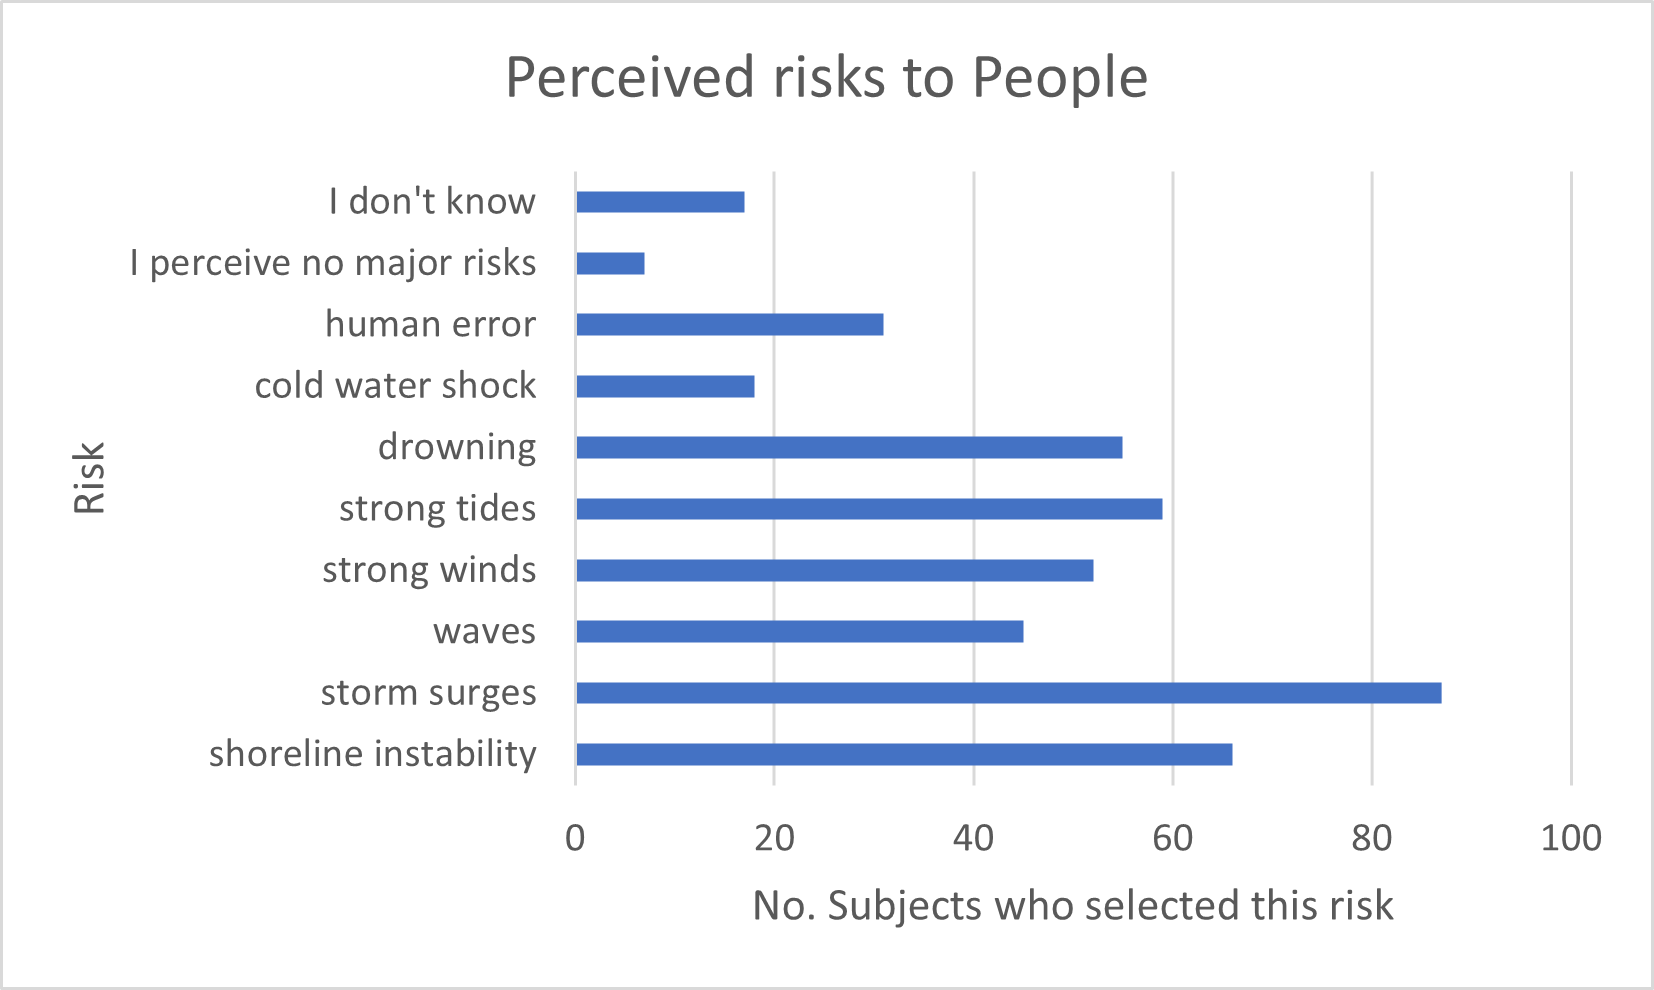
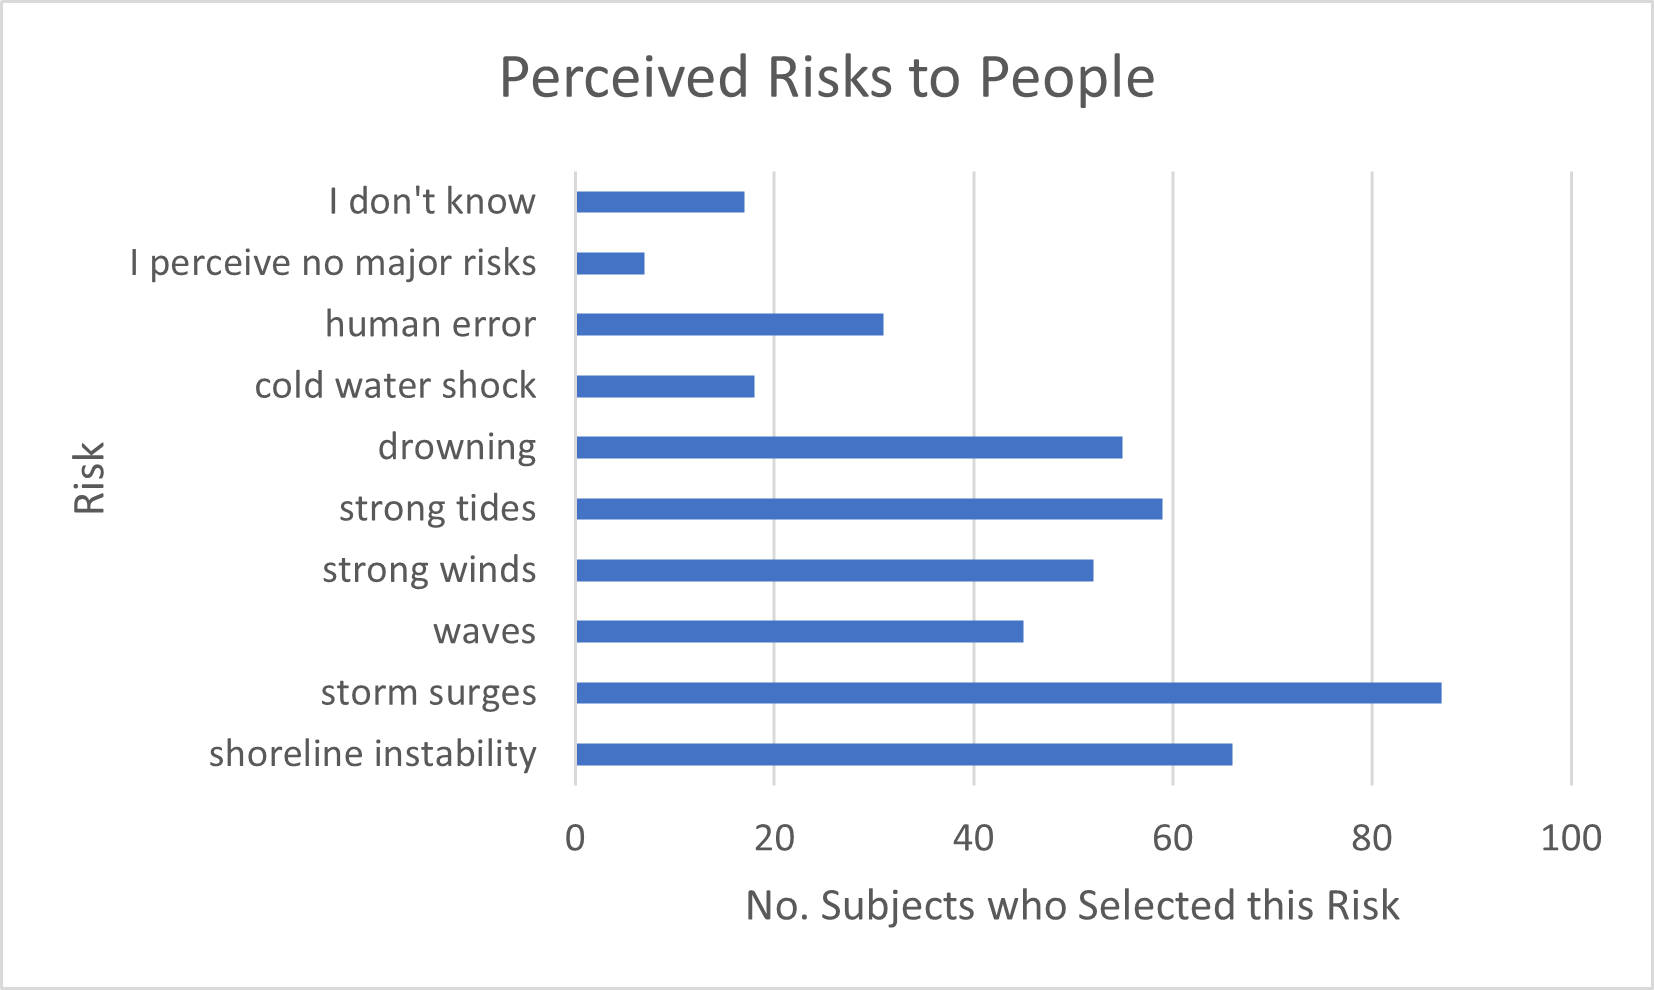
results - fixed typos including in pictures

Changed region(s): [[0.2775, 0.0606, 0.7092, 0.1212], [0.4317, 0.8788, 0.8634, 0.9394]]

diff --git a/results-resturcture.tex b/results-resturcture.tex
@@ -96,28 +96,28 @@ The spread of the memory of sea level extreme events in Trondheim by the subject
 \begin{figure}[H]
     \centering
     \includegraphics{fig_results/memory-sle.png}
-    \caption{Memory of SLEs}{ The subjects were asked which about each sea level extreme event (water level higher than 2m) they remembered occurring between 1950 and summer 2022. For the full list of potential events please consults the relevant question in the appendix. 45 out of 153 subjects do not remember any sea level extreme event in Trondheim. Only one subject remembered every sea level extreme event dating back to 1950 in Trondheim. 51 subjects remembered the sea level extreme event in February 2020. }
+    \caption{Memory of SLEs}{ The subjects were asked which SLE events (water level higher than 2m) they remembered occurring between 1950 and summer 2022. For the full list of potential events please consults appendix C. 45 out of 153 subjects (30\%) do not remember any sea level extreme event in Trondheim. Only one subject remembered every sea level extreme event dating back to 1950 in Trondheim. 51 subjects remembered the sea level extreme event in February 2020. }
     \label{fig:memory_sle}
 \end{figure}
 \paragraph{}
 
-Memory has a very skewed factor. 30\% of subjects have no memory of SLEs in Trondheim. Once that answer is excluded, there is almost an exponential increase in the number of subjects who remember the event the closer to the present. 
+Memory has a very skewed factor, 30\% of subjects have no memory of SLEs in Trondheim. Once the response of "Do not remember" is excluded, there is almost an exponential increase in the number of subjects who remember the SLE events, with the most common result being the most recent SLE event where the water level was higher than 2m.  
 \paragraph{}
 Figure \ref{fig:long_know} shows the responses to the place-based length of knowledge question.
 
 \begin{figure}[H]
     \centering
     \includegraphics{fig_results/long_know.png}
-    \caption{Length of Knowledge of Subjects.}{ 96 subjects had a length of knowledge about the place greater than 5 years 35 subjects had length of knowledge less than 5 years, but more than 1. Only 20 respondents had a length of knowledge under 1 year}
+    \caption{Length of Knowledge of Subjects.}{ 96 subjects had a length of knowledge about the place greater than 5 years 35 subjects had length of knowledge less than 5 years, but more than 1. Only 20 respondents had a length of knowledge under 1 year about the place they chose to answer on.}
     \label{fig:long_know}
 \end{figure}
 
-20 subjects responded that they had a length of knowledge of Trondheim under one year. 96 subjects responded that they had a length of knowledge greater than five years, which includes the sea level extreme event occurring in February 2020, which only 51 subjects remembered. The difference between a sea level extreme event and a disaster and how this impacts memory and resilience is expanded upon in the discussion.
+20 subjects responded that they had a length of knowledge of Trondheim under one year. 96 subjects responded that they had a length of knowledge greater than five years, which includes the sea level extreme event occurring in February 2020, which only 51 subjects remembered (figure \ref{fig:memory_sle}). The difference between a SLE event and a disaster and how this impacts memory and resilience is expanded upon in the discussion (section \ref{discuss-memory}).
 
 
 \subsection{Information Access about Climate and Place}
 
-There is significant skew in how subjects access information about climate and place as can be seen in Table \ref{table:sum_stats_info_climate_access} and Table\ref{table:sum_stats_info__place_access} below. That individuals with a broader range of information sources have higher levels of awareness is one of the hypotheses outlined in the introduction. 
+There is significant skew in how subjects access information about climate and place as can be seen in table \ref{table:sum_stats_info_climate_access} and table \ref{table:sum_stats_info__place_access} below. That individuals with a broader range of information sources have higher levels of awareness is one of the hypotheses outlined in the introduction (section \ref{hypotheses-intro}). 
 
 \begin{center}
 \begin{table}[H]
@@ -316,7 +316,7 @@ As shown by the focus group there is issues with just requesting a numeric value
 
 \subsection{Shapiro Test Results}
 
-During histogram analysis, only the factors of "interest-level" and "info-climate-sum" appeared normally distributed. To investigate whether these factors were truly normally distributed, a Shapiro test was carried out following (\cite{royston_extension_1982}).  An assumption of alpha value of 0.05 was determined meaningful (\cite{royston_extension_1982}). This means if the p-value created during this test is below 0.05 then the null hypothesis is rejected. This does leave a 5 \% chance of error. The results from the Shapiro test can be seen in Table \ref{table:shapiro_test_results} and this determines that none of the variables were normally distributed. 
+During histogram analysis, only the factors of "interest-level" and "info-climate-sum" appeared normally distributed. To investigate whether these factors were truly normally distributed, a Shapiro test was carried out following (\cite{royston_extension_1982}).  An assumption of alpha value of 0.05 was determined meaningful (\cite{royston_extension_1982}). This means if the p-value created during this test is below 0.05 then the null hypothesis is rejected. This does leave a 5 \% chance of error. The results from the Shapiro test can be seen in table \ref{table:shapiro_test_results} and this determines that none of the variables were normally distributed. 
 
 \begin{table}[H]
     \centering
@@ -384,7 +384,7 @@ Table \ref{kw_test_com_membership} shows the Kruskal Wallis Test Results for the
     \caption{Kruskal Wallis Test Results - Community Membership as Factor}{ "awareness A" means that for this determination of awareness, all five questions on awareness in the survey were included. Sum of Community Memberships is how many communities did the subjects select in the survey. Marine worker is whether the subject considered themselves a marine worker. This had no responses. Community memberships also included worker, resident, student, commuter, leisure user land, leisure user water and other. The Other community membership was where the subjects self-identified their community: the most common response was tourist, with sailor coming next. }
     \label{kw_test_com_membership}
 \end{table}
-Resident is the only value which is highlighted in Table \ref{kw_test_com_membership} as it is the only significant result when utilising a alpha value of 0.05. The factor of resident has a P-value of 0.01524, meaning the differences between the medians are statistically significant. This allows the rejection of the null hypothesis and the acceptance of the positive hypothesis that awareness is dependent on residency. 
+Resident is the only value which is highlighted in table \ref{kw_test_com_membership} as it is the only significant result when utilising a alpha value of 0.05. The factor of resident has a P-value of 0.01524, meaning the differences between the medians are statistically significant. This allows the rejection of the null hypothesis and the acceptance of the positive hypothesis that awareness is dependent on residency. 
 \paragraph{}
 
 Table \ref{kw_test_info_place} shows the Kruskal Wallis Test Results on the factors covering Information Sources for Place. Two forms of determining awareness are used as predictors. "awareness A", where all five questions on awareness in the survey were included and "awareness B", where only the questions which utilised edited photographs are used to determine awareness.
@@ -441,7 +441,7 @@ For the determination of awareness which considered all five possible questions,
 \paragraph{}
 For the determination of awareness which only utilised the edited photograph questions, both the information source of newspaper and formal education were significant.
 \paragraph{}
-Table \ref{kwtest_place} shows the Kruskal Wallis Test Results on the factors of Place subjects responded on. These places had varied physical vulnerability as outlined in Table \ref{table:research_site} in the background.
+Table \ref{kwtest_place} shows the Kruskal Wallis Test Results on the factors of Place subjects responded on. These places had varied physical vulnerability as outlined in table \ref{table:research_site} in the background.
 
 \begin{table}[H]
     \centering

diff --git a/discussion.tex b/discussion.tex
@@ -71,7 +71,7 @@ Furthermore, interest level in sea-level change? had no correlation with the phy
 
    
 
-\subsection{Memory of SLEs and Length of Place-based Knowledge}
+\subsection{Memory of SLEs and Length of Place-based Knowledge}\label{discuss-memory}
 As shown in figure \ref{fig:memory_sle}, data on memory of SLEs in Trondheim is skewed. Memory connects to length of knowledge and the length of knowledge for the majority of subjects does not extend far enough back in time (see figure \ref{fig:long_know}) to include all of the major events in Trondheim in the survey. It was highlighted in the results that 96 subjects had a length of knowledge of SLEs in Trondheim greater than five years. This time period includes the SLE event occurring in February 2020, for which only 51 subjects responded that they remembered. There are many potential reasons why 45 subjects who had a long enough length of knowledge did not remember this event. First, they were unaware of the event occurring, perhaps due to lack of personal impact, the short lived nature of the event, or not being present in Trondheim at the time. Secondly, peoples' understanding of timelines can be limited: even if they remember the event the date may not be well associated. This is part of the reason why specific dates were not mentioned in this question, just years and months. The media precursor to the February 2020 event stated that Trondheim should not worry about flooding (\cite{baisotti_danger_2020}). However, the actual SLE was 215cm, which is exceptionally high, although this garnered little media attention. How information sources, particularly newspapers, influence stakeholders' awareness is discussed in the next section: Information Access about Climate and Place.
 \paragraph{}
 How memory is formed and how it impacts awareness and resilience is highly debated. There is evidence that institutions, particularly the media, have the potential to influence memory formation and recollection (\cite{de_guttry_expiry_2022}). There is also evidence that creating institutional memory of disasters due to natural hazards can help minimise the impact of the next one (\cite{de_guttry_expiry_2022}). However, none of the SLEs that have occurred in Trondheim since 1950 are considered here as a disaster, but simply an event. It is thus possible that the low severity of past SLEs has influenced memory of SLEs in Trondheim. 

diff --git a/theory.tex b/theory.tex
@@ -38,7 +38,7 @@ Considering disaster risk management, the local institutional and expert knowled
 
 \paragraph{}
 
-Local knowledge is often highlighted as a key facet of community resilience (\cite{setten_we_2019}). The assumption is that higher levels of local knowledge, particularly higher levels of awareness about natural systems and natural hazards, increases community resilience.  How local knowledge interacts with community resilience and where this belongs in a place-based conceptualisation of resilience is discussed in the social systems of resilience section below (section \ref{theory-resilience}). Awareness of local risk is here considered as a facet of local knowledge.  
+Local knowledge is often highlighted as a key facet of community resilience (\cite{setten_we_2019}). The assumption is that higher levels of local knowledge, particularly higher levels of awareness about natural systems and natural hazards, increases community resilience. How local knowledge interacts with community resilience and where this belongs in a place-based conceptualisation of resilience is discussed in the social systems of resilience section below (section \ref{theory-resilience}). Awareness of local risk is here considered as a facet of local knowledge.  
 
 
  

diff --git a/intro.tex b/intro.tex
@@ -39,7 +39,7 @@ The thesis objective is to determine Trondheim's resilience to SLEs by consideri
 \end{enumerate}
 
 
-\section{Hypotheses for Research Questions}
+\section{Hypotheses for Research Questions}\label{hypotheses-intro}
 
 \subsection{Research Question 1}
 It was hypothesised that Trondheim is highly resilient to SLEs during the period of 2022 to 2050. \cite{opach_seeking_2020} determined that Trondheim has high community resilience due to its social, economic and infrastructural resources, this is combined with it location (figure \ref{fig:research_area}) which protects it from the majority of storms coming off the North sea. It was hypothesised that due to the changing climate (\cite{ipcc_sea_2021}), decreasing uplift rates (\cite{hanssen-bauer_climate_2017}) and social shifts (\cite{dsb_integrating-sea-level-rise-and-storm-surges--local-planningpdf_2017}) including increasing population in Trondheim (\cite{ssb_kommunefakta_2023}) that Trondheim will then decrease to quite resilient during the period of 2050 to 2100. 
